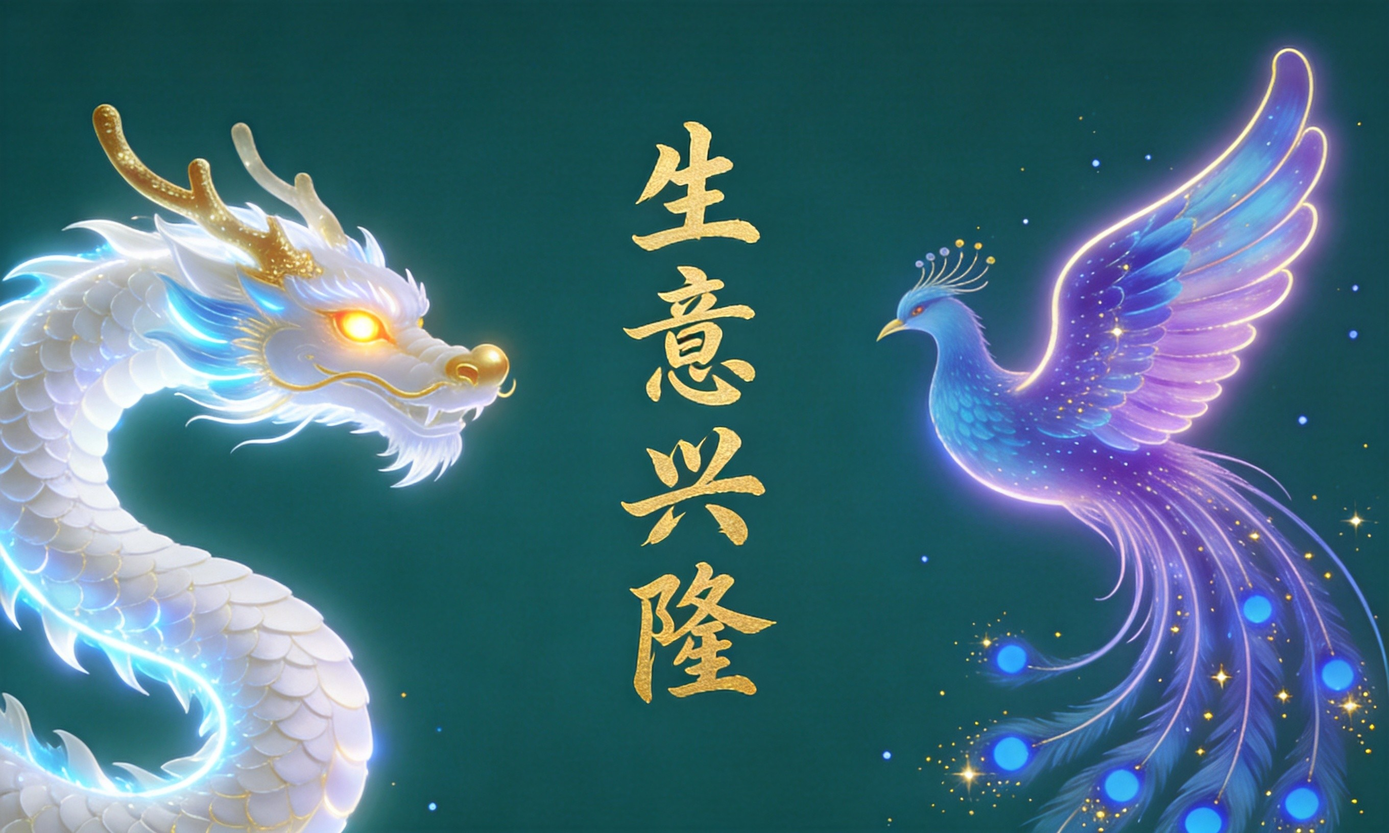
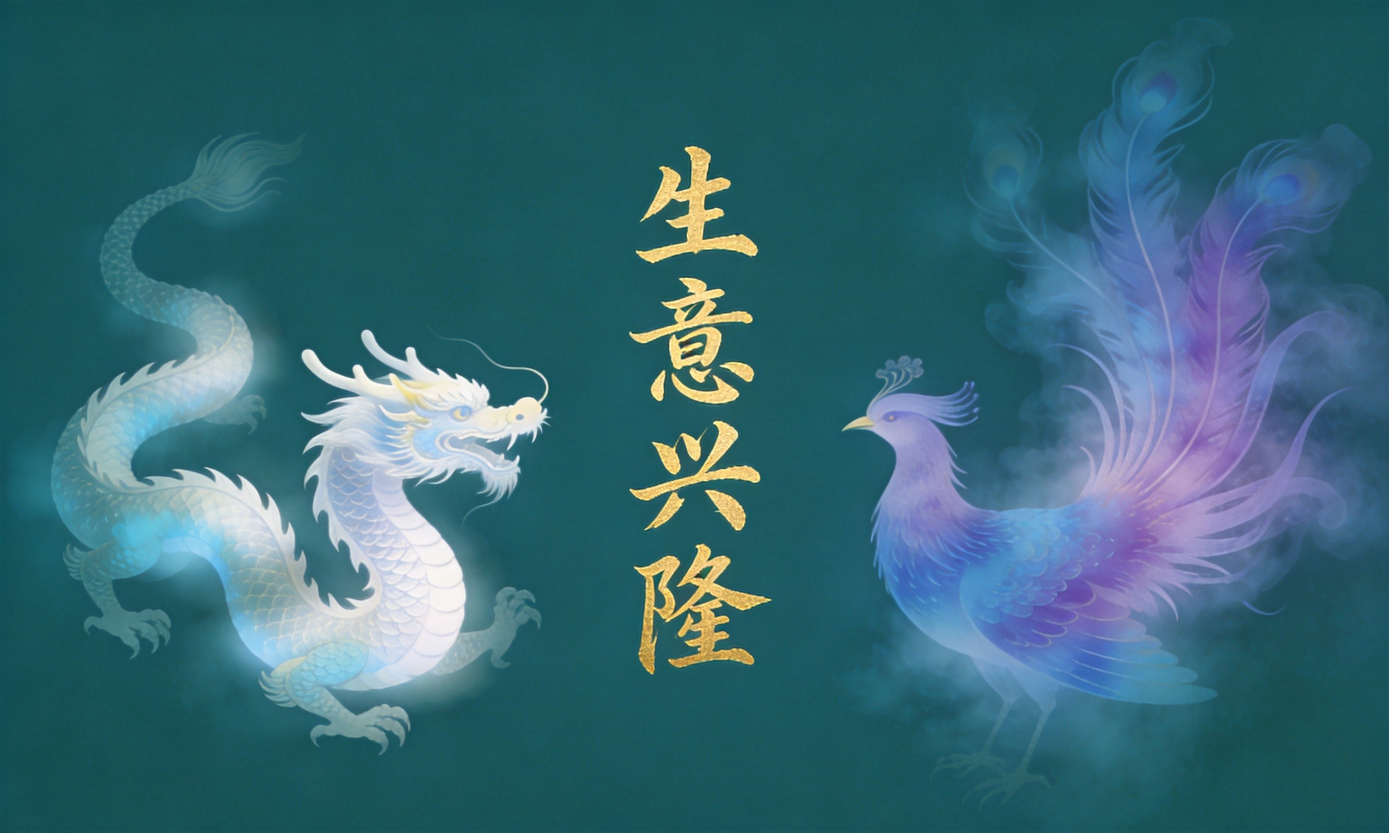
装饰图v10: 龙凤淡色水印, 透明度0.15, 不影响文字清晰度

diff --git a/report.html b/report.html
@@ -16,7 +16,7 @@ body { font-family:-apple-system,"PingFang SC","Microsoft YaHei","Helvetica Neue
 
 /* ===== Info Card ===== */
 .info-card { background:linear-gradient(135deg,#0d5e5e 0%,#1a7a7a 50%,#0d5e5e 100%); border-radius:0; padding:18px 22px; margin:0; color:#fff; position:relative; overflow:hidden; }
-.info-card::before { content:''; position:absolute; inset:0; background:url('img/shengyi_xinglong.png') center center/contain no-repeat; opacity:0.85; pointer-events:none; z-index:0; }
+.info-card::before { content:''; position:absolute; inset:0; background:url('img/shengyi_xinglong.png') center center/contain no-repeat; opacity:0.15; pointer-events:none; z-index:0; }
 .info-card-inner { position:relative; z-index:1; display:flex; align-items:flex-start; gap:12px; }
 .info-card-text { flex:1; min-width:0; }
 .info-card-title { font-size:14px; font-weight:600; margin-bottom:14px; padding-left:10px; border-left:3px solid rgba(255,255,255,0.7); letter-spacing:1px; }
